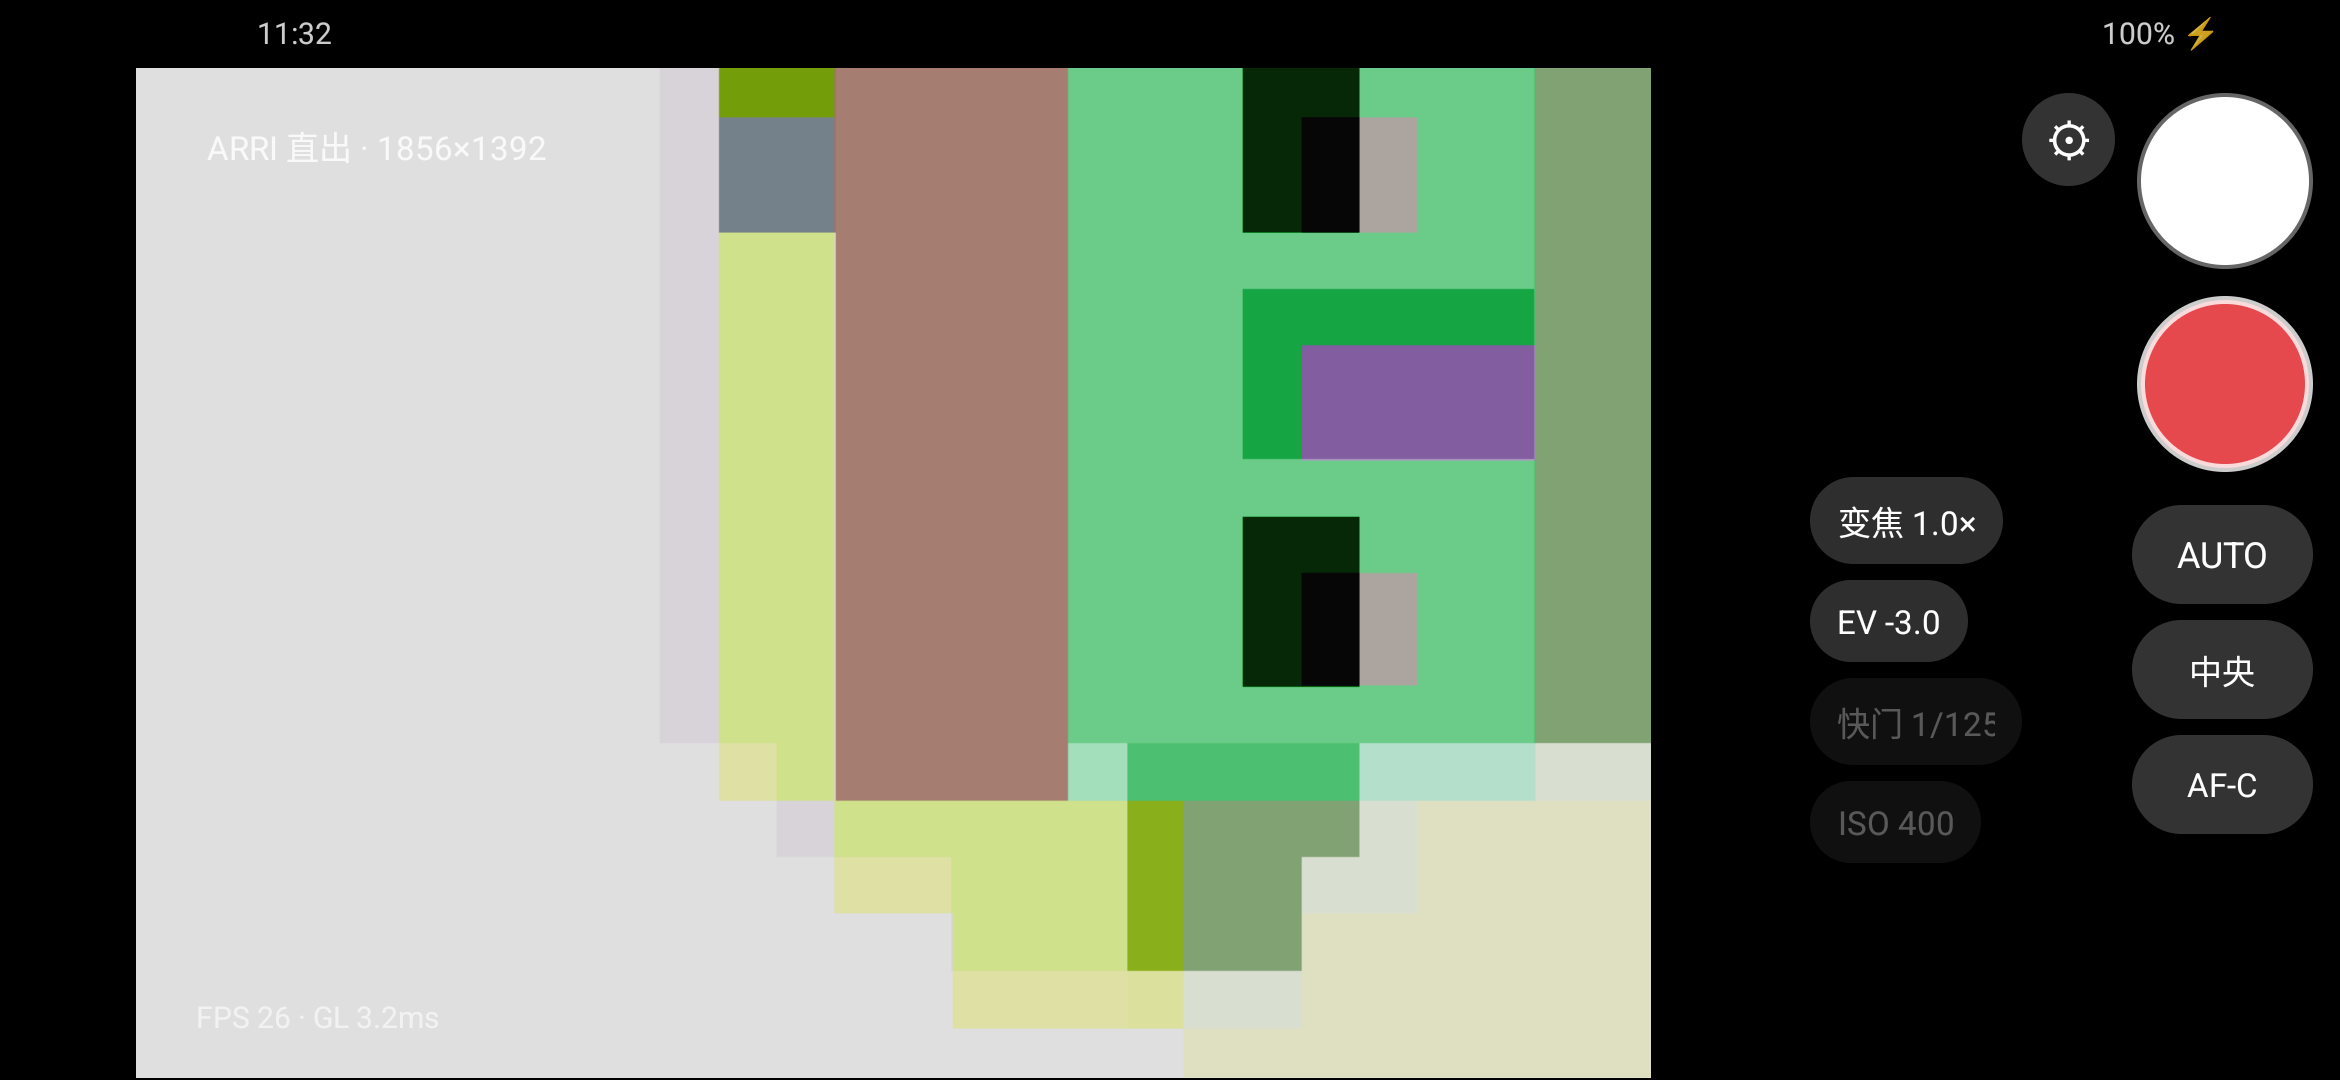
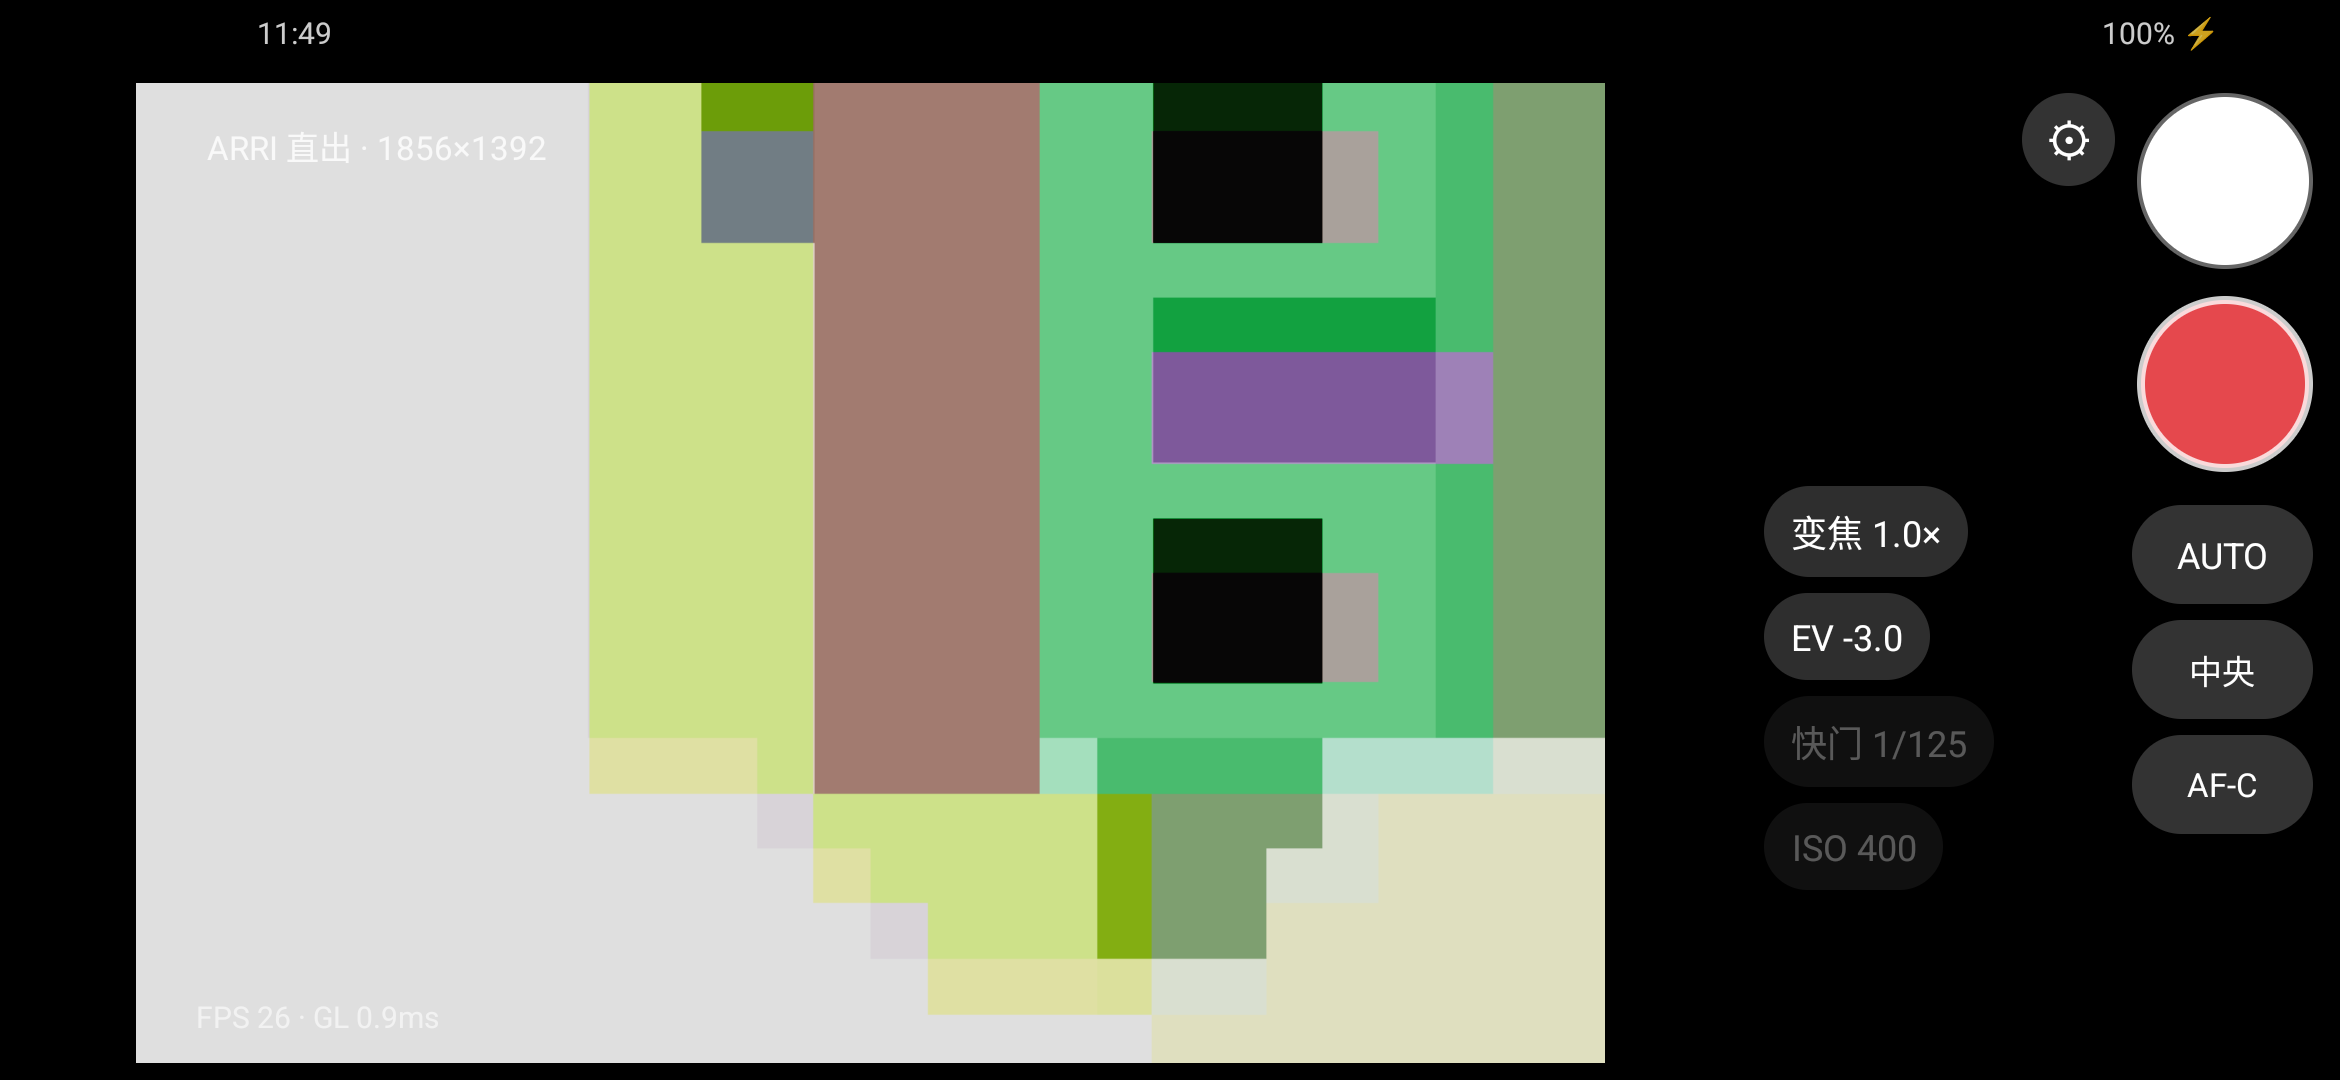
Lume: 变焦改为单级（相机 ZOOM_RATIO），消除两级变焦不同步导致的闪烁；按钮字号自适应防截断

Changed region(s): [[0.0624, 0.0611, 0.7175, 1.0], [0.7487, 0.4278, 0.8735, 0.7028], [0.7487, 0.7333, 0.8423, 0.7944]]

diff --git a/lume/app/src/main/java/com/magirri/lume/MainActivity.kt b/lume/app/src/main/java/com/magirri/lume/MainActivity.kt
@@ -289,10 +289,6 @@ class MainActivity : Activity() {
         camera.onPreviewSize = { size ->
             preview.cameraAspect = size.width.toFloat() / size.height
         }
-        camera.onAppliedZoom = { z ->
-            preview.cameraZoom = z
-            preview.requestRender()
-        }
         camera.onLensSwitched = {
             setupDials(camera.controls)
             applyFrameRatio()
@@ -386,7 +382,7 @@ class MainActivity : Activity() {
 
         row.addView(
             previewBox,
-            LinearLayout.LayoutParams(0, ViewGroup.LayoutParams.MATCH_PARENT, 2.2f)
+            LinearLayout.LayoutParams(0, ViewGroup.LayoutParams.MATCH_PARENT, 2.0f)
         )
 
         // ---------- 右：面板（左边一条细长波轮位，右边一列按钮） ----------
@@ -407,12 +403,9 @@ class MainActivity : Activity() {
                 // GL 立刻跟手，相机延后 260ms 再追 —— 相机那一步会让 HAL 去换镜头，
                 // 每帧都发会把管线打满（之前变焦卡顿就是这么来的）
                 zoomLevel = zoomFromValue(v)
-                preview.targetZoom = zoomLevel
-                preview.requestRender()
+                // 只走相机这一级：相机 zoom 连续，拨动多快就跟多快
+                camera.setZoom(zoomLevel)
                 updateWheelButtons()
-                // 停手 260ms 再把目标交给相机（分步追 + HAL 可能换镜头）
-                zoomTick.removeCallbacks(zoomTask)
-                zoomTick.postDelayed(zoomTask, 260)
             }
         }
         evDial = WheelView(this, "EV").apply {
@@ -547,9 +540,10 @@ class MainActivity : Activity() {
         modeBtn = TextView(this).apply {
             text = "AUTO"
             setTextColor(Color.WHITE)
-            textSize = 13f
             gravity = Gravity.CENTER
-            setPadding(dp(14), dp(8), dp(14), dp(8))
+            setAutoSizeTextTypeUniformWithConfiguration(
+                9, 13, 1, android.util.TypedValue.COMPLEX_UNIT_SP
+            )
             background = pill(0x33FFFFFF)
             setOnClickListener { cycleMode() }
         }
@@ -562,7 +556,9 @@ class MainActivity : Activity() {
         meterBtn = TextView(this).apply {
             text = METER_NAMES[1]
             setTextColor(Color.WHITE)
-            textSize = 12f
+            setAutoSizeTextTypeUniformWithConfiguration(
+                9, 12, 1, android.util.TypedValue.COMPLEX_UNIT_SP
+            )
             gravity = Gravity.CENTER
             setPadding(dp(14), dp(8), dp(14), dp(8))
             background = pill(0x33FFFFFF)
@@ -581,7 +577,9 @@ class MainActivity : Activity() {
         focusBtn = TextView(this).apply {
             text = FOCUS_NAMES[focusIndex]
             setTextColor(Color.WHITE)
-            textSize = 12f
+            setAutoSizeTextTypeUniformWithConfiguration(
+                9, 12, 1, android.util.TypedValue.COMPLEX_UNIT_SP
+            )
             gravity = Gravity.CENTER
             setPadding(dp(14), dp(8), dp(14), dp(8))
             background = pill(0x33FFFFFF)
@@ -707,9 +705,12 @@ class MainActivity : Activity() {
         TextView(this).apply {
             text = "$title $value"
             setTextColor(Color.WHITE)
-            textSize = 12f
             gravity = Gravity.CENTER
             isSingleLine = true          // 「对焦 21cm」这类长文案不折行
+            // 面板宽度随机型密度变化，字号自适应才不会把「快门 1/125」截断
+            setAutoSizeTextTypeUniformWithConfiguration(
+                8, 13, 1, android.util.TypedValue.COMPLEX_UNIT_SP
+            )
             setPadding(dp(10), dp(7), dp(10), dp(7))
             // 按钮自带灰色圆角胶囊；面板底是纯黑，两者区分开
             background = pill(0x2EFFFFFF)
@@ -1069,9 +1070,6 @@ class MainActivity : Activity() {
             }.start()
         }, 900)
     }
-
-    private val zoomTick = android.os.Handler(android.os.Looper.getMainLooper())
-    private val zoomTask = Runnable { camera.setZoom(zoomLevel) }
 
     /** 镜头按钮：显示当前镜头的相对倍率 */
     private fun updateLensButton() {

diff --git a/lume/app/src/main/java/com/magirri/lume/CameraEngine.kt b/lume/app/src/main/java/com/magirri/lume/CameraEngine.kt
@@ -635,22 +635,15 @@ class CameraEngine(private val context: Context) {
      * 一次跨好几个档会让 HAL 直接跳（还可能顺手换镜头），画面就"瞬间放大缩小"。
      * 真正生效的倍数不靠猜，而是从 CaptureResult 里读回来告诉 UI。
      */
+    /**
+     * 变焦：直接交给相机（`CONTROL_ZOOM_RATIO`）。相机端的 zoom 是连续的，
+     * 只要别一次跨太多档就不会跳；真正生效的倍数从 CaptureResult 读回来。
+     */
     fun setZoom(ratio: Float) {
-        pendingZoom = ratio.coerceIn(1f, controls.maxZoom)
-        stepZoom()
-    }
-
-    private fun stepZoom() {
-        val target = pendingZoom
-        val next = when {
-            target > zoom + 0.01f -> Math.min(target, zoom * 1.25f)
-            target < zoom - 0.01f -> Math.max(target, zoom / 1.25f)
-            else -> zoom
-        }
-        if (Math.abs(next - zoom) < 0.01f) return
-        zoom = next
+        val z = ratio.coerceIn(1f, controls.maxZoom)
+        if (Math.abs(z - zoom) < 0.01f) return
+        zoom = z
         reapply()
-        handler?.postDelayed({ if (Math.abs(pendingZoom - zoom) > 0.01f) stepZoom() }, 180)
     }
 
     /** 相机实际生效的变焦（含 HAL 内部换镜头造成的跳变） */

diff --git a/lume/app/src/main/java/com/magirri/lume/GlPreview.kt b/lume/app/src/main/java/com/magirri/lume/GlPreview.kt
@@ -643,9 +643,9 @@ class GlPreview(
         // 旋转 UV 等于画面反向旋转，所以传负角度，画面才是顺时针转
         GLES20.glUniform1f(uRotation, rotationRad)
         GLES20.glUniform1f(uStrength, strength)
-        // 总变焦 = 相机 zoom × GL zoom；相机（可能换镜头）先吃掉一部分
-        val glZoom = (zoomNow / cameraZoom.coerceAtLeast(1f)).coerceAtLeast(1f)
-        GLES20.glUniform2f(uTexScale, cropX / glZoom, cropY / glZoom)
+        // 变焦只由相机做（CONTROL_ZOOM_RATIO）。两级变焦不可能同帧生效，
+        // 每次相机跳一下 GL 就要补一下，画面就是一闪一闪的。这里只做画幅裁切。
+        GLES20.glUniform2f(uTexScale, cropX, cropY)
         GLES20.glUniform2f(uQuadScale, qx, qy)
 
         quad.position(0)
